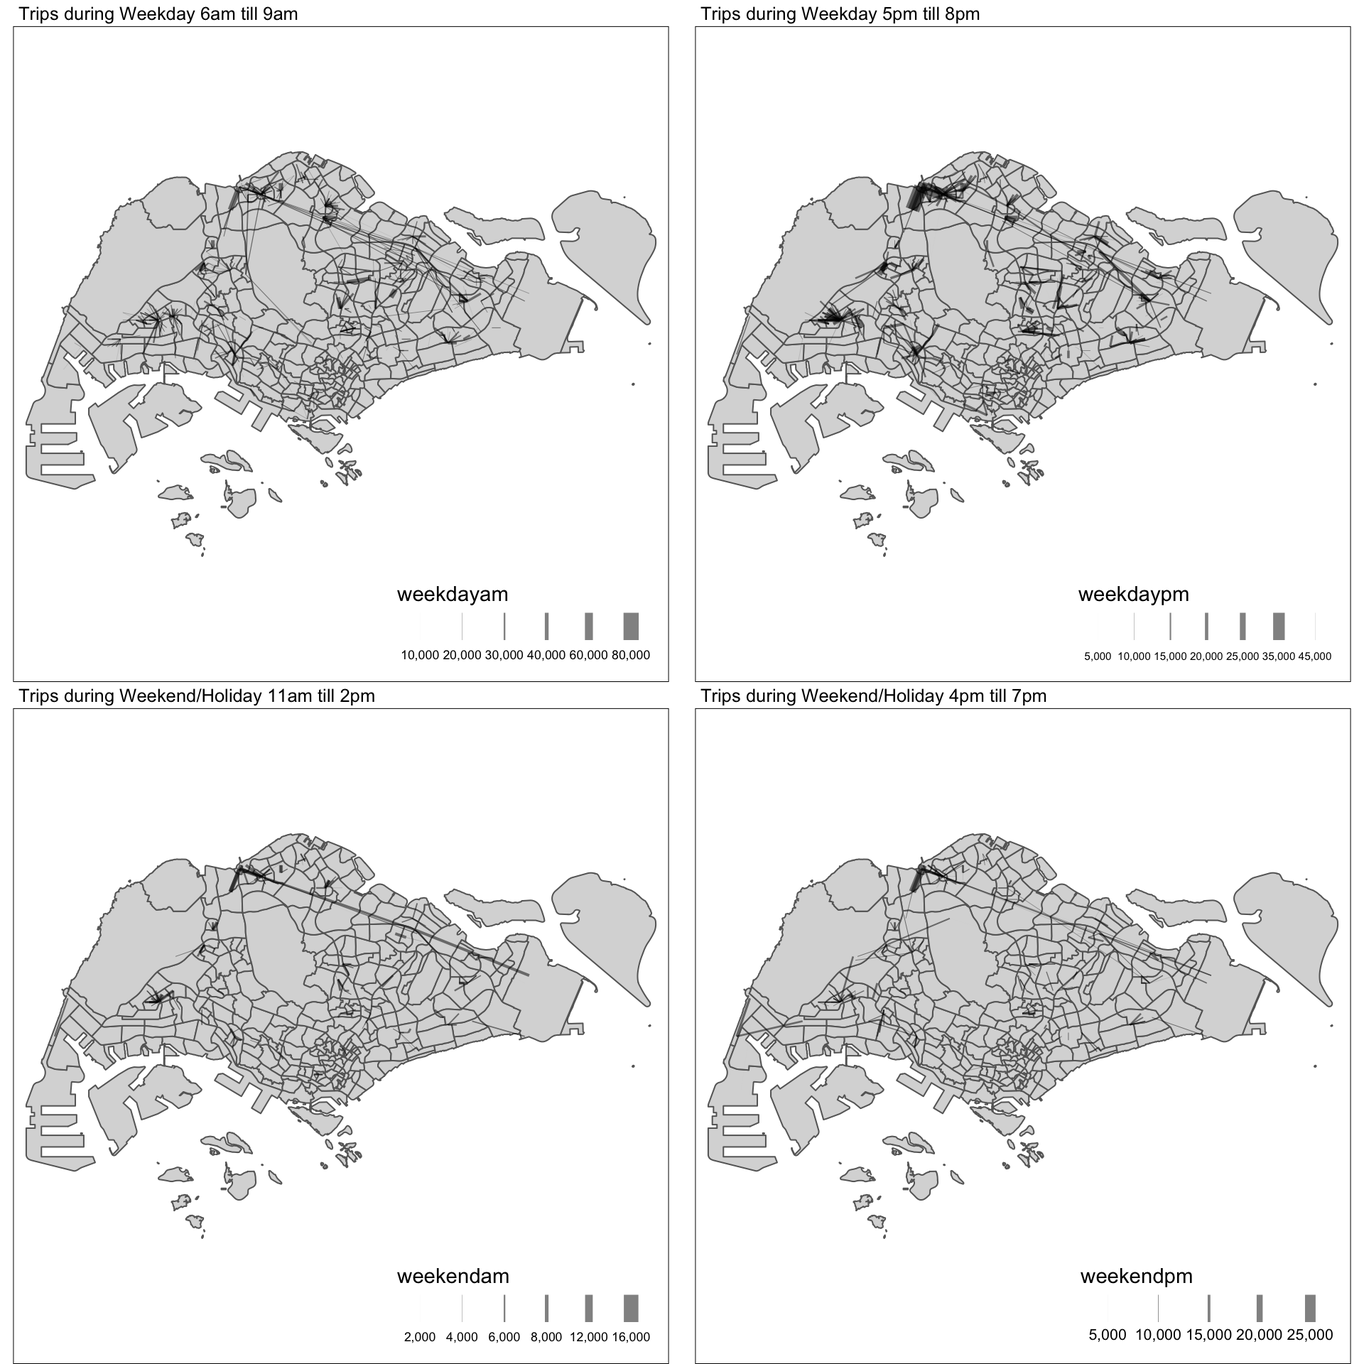
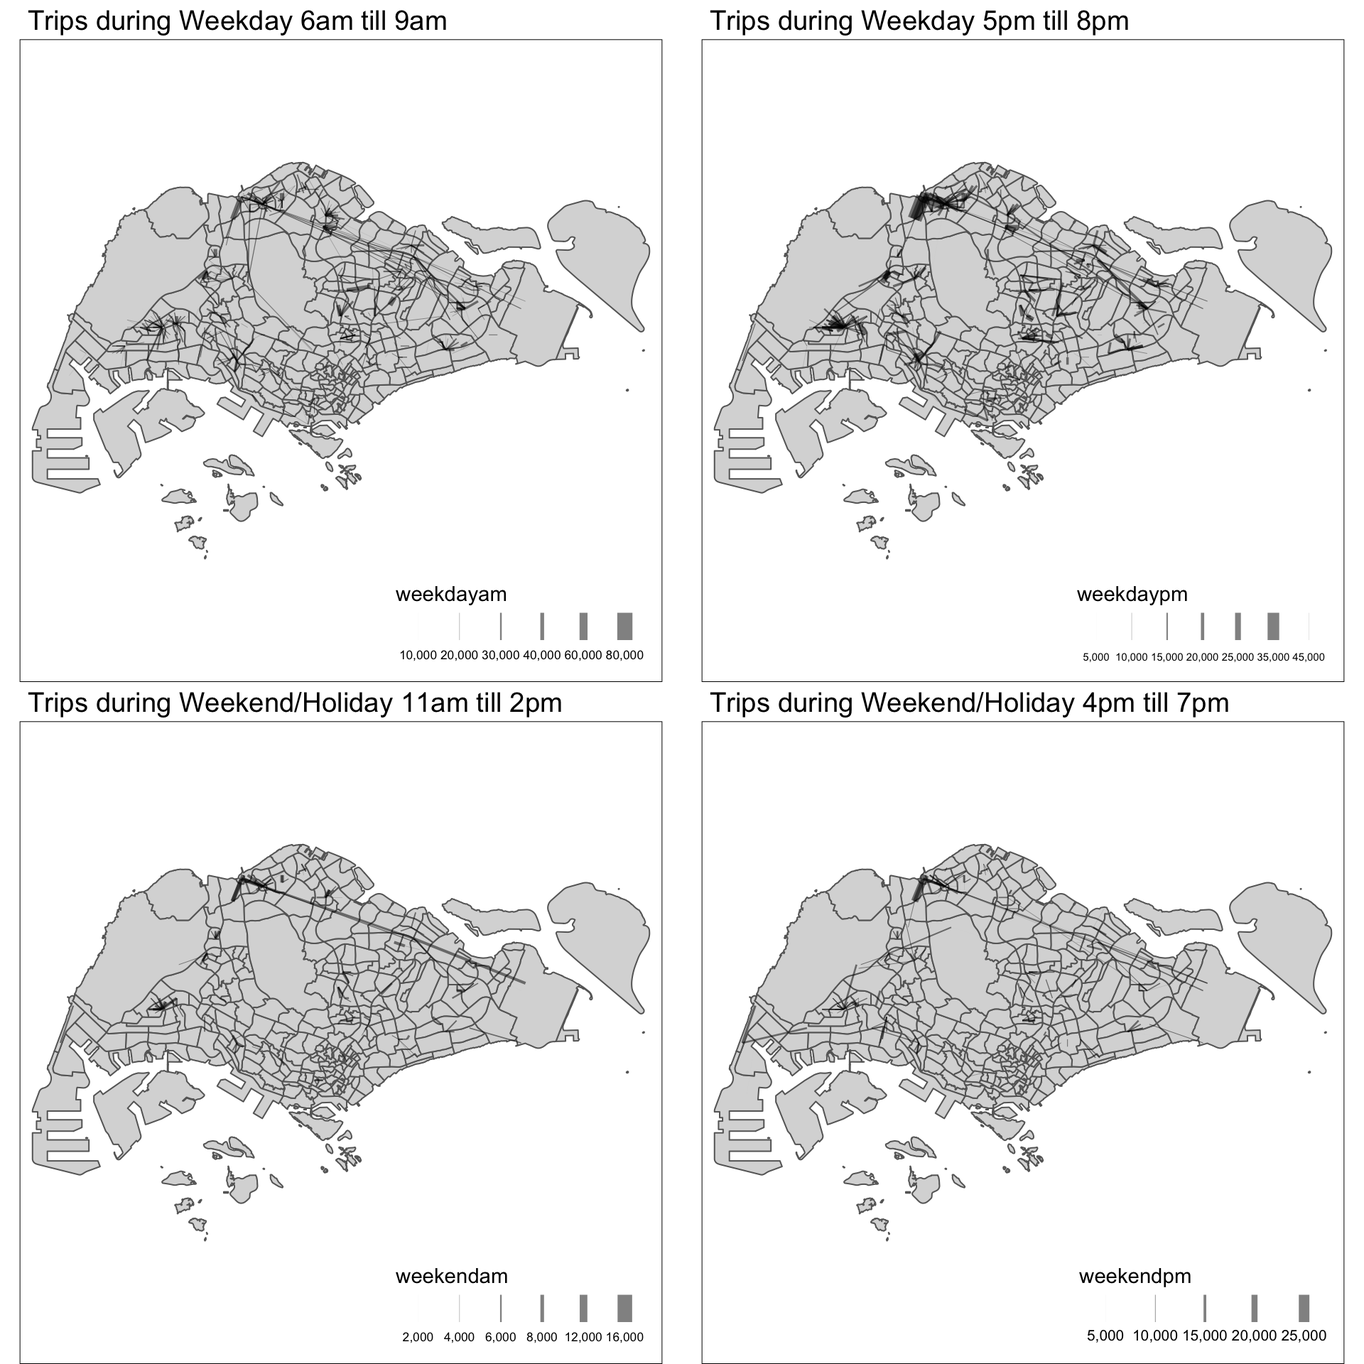
commit for test the large distance matrxit.

diff --git a/_site/Takehome_Ex/Takehome_Ex02/Takehome_Ex02.html b/_site/Takehome_Ex/Takehome_Ex02/Takehome_Ex02.html
@@ -358,7 +358,7 @@ Important
 <div class="cell">
 <details>
 <summary>Code</summary>
-<div class="sourceCode cell-code" id="cb1"><pre class="sourceCode r code-with-copy"><code class="sourceCode r"><span id="cb1-1"><a href="#cb1-1" aria-hidden="true" tabindex="-1"></a>pacman<span class="sc">::</span><span class="fu">p_load</span>(sf, spdep, tmap, tidyverse, sfdep, stplanr, reshape2, ggpubr, DT)</span></code><button title="Copy to Clipboard" class="code-copy-button"><i class="bi"></i></button></pre></div>
+<div class="sourceCode cell-code" id="cb1"><pre class="sourceCode r code-with-copy"><code class="sourceCode r"><span id="cb1-1"><a href="#cb1-1" aria-hidden="true" tabindex="-1"></a>pacman<span class="sc">::</span><span class="fu">p_load</span>(sf, sp, spdep, tmap, tidyverse, sfdep, stplanr, reshape2, ggpubr, DT)</span></code><button title="Copy to Clipboard" class="code-copy-button"><i class="bi"></i></button></pre></div>
 </details>
 </div>
 </section>
@@ -744,7 +744,7 @@ $ TRIPS               &lt;dbl&gt; 290, 540, 265, 201, 118, 516, 189, 165, 77, 30
 <span id="cb30-10"><a href="#cb30-10" aria-hidden="true" tabindex="-1"></a>           <span class="at">n =</span> <span class="dv">6</span>,</span>
 <span id="cb30-11"><a href="#cb30-11" aria-hidden="true" tabindex="-1"></a>           <span class="at">alpha =</span> <span class="fl">0.5</span>) <span class="sc">+</span></span>
 <span id="cb30-12"><a href="#cb30-12" aria-hidden="true" tabindex="-1"></a>  <span class="fu">tm_layout</span>(<span class="at">main.title =</span> <span class="st">"Trips during Weekday 6am till 9am"</span>,</span>
-<span id="cb30-13"><a href="#cb30-13" aria-hidden="true" tabindex="-1"></a>            <span class="at">main.title.size =</span> <span class="fl">0.8</span>)</span>
+<span id="cb30-13"><a href="#cb30-13" aria-hidden="true" tabindex="-1"></a>            <span class="at">main.title.size =</span> <span class="fl">1.2</span>)</span>
 <span id="cb30-14"><a href="#cb30-14" aria-hidden="true" tabindex="-1"></a></span>
 <span id="cb30-15"><a href="#cb30-15" aria-hidden="true" tabindex="-1"></a>weekdaypm_plot <span class="ot">&lt;-</span> <span class="fu">tm_shape</span>(sz) <span class="sc">+</span></span>
 <span id="cb30-16"><a href="#cb30-16" aria-hidden="true" tabindex="-1"></a>  <span class="fu">tmap_options</span>(<span class="at">check.and.fix =</span> <span class="cn">TRUE</span>) <span class="sc">+</span></span>
@@ -758,7 +758,7 @@ $ TRIPS               &lt;dbl&gt; 290, 540, 265, 201, 118, 516, 189, 165, 77, 30
 <span id="cb30-24"><a href="#cb30-24" aria-hidden="true" tabindex="-1"></a>           <span class="at">n =</span> <span class="dv">6</span>,</span>
 <span id="cb30-25"><a href="#cb30-25" aria-hidden="true" tabindex="-1"></a>           <span class="at">alpha =</span> <span class="fl">0.5</span>) <span class="sc">+</span></span>
 <span id="cb30-26"><a href="#cb30-26" aria-hidden="true" tabindex="-1"></a>  <span class="fu">tm_layout</span>(<span class="at">main.title =</span> <span class="st">"Trips during Weekday 5pm till 8pm"</span>,</span>
-<span id="cb30-27"><a href="#cb30-27" aria-hidden="true" tabindex="-1"></a>            <span class="at">main.title.size =</span> <span class="fl">0.8</span>)</span>
+<span id="cb30-27"><a href="#cb30-27" aria-hidden="true" tabindex="-1"></a>            <span class="at">main.title.size =</span> <span class="fl">1.2</span>)</span>
 <span id="cb30-28"><a href="#cb30-28" aria-hidden="true" tabindex="-1"></a></span>
 <span id="cb30-29"><a href="#cb30-29" aria-hidden="true" tabindex="-1"></a>weekendam_plot <span class="ot">&lt;-</span> <span class="fu">tm_shape</span>(sz) <span class="sc">+</span></span>
 <span id="cb30-30"><a href="#cb30-30" aria-hidden="true" tabindex="-1"></a>  <span class="fu">tmap_options</span>(<span class="at">check.and.fix =</span> <span class="cn">TRUE</span>) <span class="sc">+</span></span>
@@ -772,7 +772,7 @@ $ TRIPS               &lt;dbl&gt; 290, 540, 265, 201, 118, 516, 189, 165, 77, 30
 <span id="cb30-38"><a href="#cb30-38" aria-hidden="true" tabindex="-1"></a>           <span class="at">n =</span> <span class="dv">6</span>,</span>
 <span id="cb30-39"><a href="#cb30-39" aria-hidden="true" tabindex="-1"></a>           <span class="at">alpha =</span> <span class="fl">0.5</span>) <span class="sc">+</span></span>
 <span id="cb30-40"><a href="#cb30-40" aria-hidden="true" tabindex="-1"></a>  <span class="fu">tm_layout</span>(<span class="at">main.title =</span> <span class="st">"Trips during Weekend/Holiday 11am till 2pm"</span>,</span>
-<span id="cb30-41"><a href="#cb30-41" aria-hidden="true" tabindex="-1"></a>            <span class="at">main.title.size =</span> <span class="fl">0.8</span>)</span>
+<span id="cb30-41"><a href="#cb30-41" aria-hidden="true" tabindex="-1"></a>            <span class="at">main.title.size =</span> <span class="fl">1.2</span>)</span>
 <span id="cb30-42"><a href="#cb30-42" aria-hidden="true" tabindex="-1"></a></span>
 <span id="cb30-43"><a href="#cb30-43" aria-hidden="true" tabindex="-1"></a>weekendpm_plot <span class="ot">&lt;-</span> <span class="fu">tm_shape</span>(sz) <span class="sc">+</span></span>
 <span id="cb30-44"><a href="#cb30-44" aria-hidden="true" tabindex="-1"></a>  <span class="fu">tmap_options</span>(<span class="at">check.and.fix =</span> <span class="cn">TRUE</span>) <span class="sc">+</span></span>
@@ -786,7 +786,7 @@ $ TRIPS               &lt;dbl&gt; 290, 540, 265, 201, 118, 516, 189, 165, 77, 30
 <span id="cb30-52"><a href="#cb30-52" aria-hidden="true" tabindex="-1"></a>           <span class="at">n =</span> <span class="dv">6</span>,</span>
 <span id="cb30-53"><a href="#cb30-53" aria-hidden="true" tabindex="-1"></a>           <span class="at">alpha =</span> <span class="fl">0.5</span>) <span class="sc">+</span></span>
 <span id="cb30-54"><a href="#cb30-54" aria-hidden="true" tabindex="-1"></a>  <span class="fu">tm_layout</span>(<span class="at">main.title =</span> <span class="st">"Trips during Weekend/Holiday 4pm till 7pm"</span>,</span>
-<span id="cb30-55"><a href="#cb30-55" aria-hidden="true" tabindex="-1"></a>            <span class="at">main.title.size =</span> <span class="fl">0.8</span>)</span>
+<span id="cb30-55"><a href="#cb30-55" aria-hidden="true" tabindex="-1"></a>            <span class="at">main.title.size =</span> <span class="fl">1.2</span>)</span>
 <span id="cb30-56"><a href="#cb30-56" aria-hidden="true" tabindex="-1"></a></span>
 <span id="cb30-57"><a href="#cb30-57" aria-hidden="true" tabindex="-1"></a><span class="fu">tmap_arrange</span>(weekdayam_plot, weekdaypm_plot, weekendam_plot, weekendpm_plot, <span class="at">asp=</span><span class="dv">1</span>, <span class="at">ncol=</span><span class="dv">2</span>,</span>
 <span id="cb30-58"><a href="#cb30-58" aria-hidden="true" tabindex="-1"></a>             <span class="at">outer.margins =</span> <span class="dv">0</span>)</span></code><button title="Copy to Clipboard" class="code-copy-button"><i class="bi"></i></button></pre></div>
@@ -807,7 +807,6 @@ Note
 <div class="callout-body-container callout-body">
 <p><strong>Observations:</strong></p>
 <p>Describe the spatial patterns revealed by the geo-visualization (not more than 100 words per visual)</p>
-<p><strong>try to add a facet graph for each time interval.</strong></p>
 </div>
 </div>
 </section>
@@ -974,40 +973,81 @@ Important
 </section>
 <section id="distance-matrix" class="level4">
 <h4 class="anchored" data-anchor-id="distance-matrix">4.1.5 Distance Matrix</h4>
-<p>I will focus on weekend/holiday evening peak time interval for further analysis.</p>
+<p>First we need to convert the bus_hex we have generated into <strong>Spatial Polygons Data Frame.</strong></p>
 <div class="cell">
 <details>
 <summary>Code</summary>
-<div class="sourceCode cell-code" id="cb46"><pre class="sourceCode r code-with-copy"><code class="sourceCode r"><span id="cb46-1"><a href="#cb46-1" aria-hidden="true" tabindex="-1"></a>weekendpm_trips <span class="ot">&lt;-</span> odbus <span class="sc">%&gt;%</span></span>
-<span id="cb46-2"><a href="#cb46-2" aria-hidden="true" tabindex="-1"></a>  <span class="fu">filter</span>(DAY_TYPE <span class="sc">==</span> <span class="st">"WEEKENDS/HOLIDAY"</span>) <span class="sc">%&gt;%</span></span>
-<span id="cb46-3"><a href="#cb46-3" aria-hidden="true" tabindex="-1"></a>  <span class="fu">filter</span>(TIME_PER_HOUR <span class="sc">&gt;=</span> <span class="dv">16</span> <span class="sc">&amp;</span></span>
-<span id="cb46-4"><a href="#cb46-4" aria-hidden="true" tabindex="-1"></a>           TIME_PER_HOUR <span class="sc">&lt;=</span> <span class="dv">19</span>) <span class="sc">%&gt;%</span></span>
-<span id="cb46-5"><a href="#cb46-5" aria-hidden="true" tabindex="-1"></a>  <span class="fu">group_by</span>(ORIGIN_PT_CODE, DESTINATION_PT_CODE) <span class="sc">%&gt;%</span></span>
-<span id="cb46-6"><a href="#cb46-6" aria-hidden="true" tabindex="-1"></a>  <span class="fu">reframe</span>(<span class="at">TRIPS =</span> <span class="fu">sum</span>(TOTAL_TRIPS))</span>
-<span id="cb46-7"><a href="#cb46-7" aria-hidden="true" tabindex="-1"></a> </span>
-<span id="cb46-8"><a href="#cb46-8" aria-hidden="true" tabindex="-1"></a>weekendpm_trips <span class="ot">&lt;-</span> weekendpm_trips <span class="sc">%&gt;%</span></span>
-<span id="cb46-9"><a href="#cb46-9" aria-hidden="true" tabindex="-1"></a>  <span class="fu">filter</span>(ORIGIN_PT_CODE <span class="sc">%in%</span> bus_hex<span class="sc">$</span><span class="st">'BUS_STOP_N'</span>) <span class="sc">%&gt;%</span></span>
-<span id="cb46-10"><a href="#cb46-10" aria-hidden="true" tabindex="-1"></a>  <span class="fu">filter</span>(DESTINATION_PT_CODE <span class="sc">%in%</span> bus_hex<span class="sc">$</span><span class="st">'BUS_STOP_N'</span>)</span>
-<span id="cb46-11"><a href="#cb46-11" aria-hidden="true" tabindex="-1"></a></span>
-<span id="cb46-12"><a href="#cb46-12" aria-hidden="true" tabindex="-1"></a>weekendpm_hex <span class="ot">&lt;-</span> <span class="fu">left_join</span>(weekendpm_trips,bus_hex <span class="sc">%&gt;%</span> <span class="fu">select</span>(BUS_STOP_N, geometry), </span>
-<span id="cb46-13"><a href="#cb46-13" aria-hidden="true" tabindex="-1"></a>                          <span class="at">by =</span> <span class="fu">c</span>(<span class="st">"ORIGIN_PT_CODE"</span> <span class="ot">=</span> <span class="st">"BUS_STOP_N"</span>))  <span class="sc">%&gt;%</span></span>
-<span id="cb46-14"><a href="#cb46-14" aria-hidden="true" tabindex="-1"></a>  <span class="fu">rename</span>(<span class="at">ORIGIN_BS =</span> ORIGIN_PT_CODE,</span>
-<span id="cb46-15"><a href="#cb46-15" aria-hidden="true" tabindex="-1"></a>         <span class="at">DESTIN_BS =</span> DESTINATION_PT_CODE) </span>
-<span id="cb46-16"><a href="#cb46-16" aria-hidden="true" tabindex="-1"></a></span>
-<span id="cb46-17"><a href="#cb46-17" aria-hidden="true" tabindex="-1"></a>weekendpm_hex <span class="ot">&lt;-</span> <span class="fu">left_join</span>(weekendpm_hex, bus_hex <span class="sc">%&gt;%</span> <span class="fu">select</span>(BUS_STOP_N, geometry), </span>
-<span id="cb46-18"><a href="#cb46-18" aria-hidden="true" tabindex="-1"></a>                          <span class="at">by =</span> <span class="fu">c</span>(<span class="st">"DESTIN_BS"</span> <span class="ot">=</span> <span class="st">"BUS_STOP_N"</span>),</span>
-<span id="cb46-19"><a href="#cb46-19" aria-hidden="true" tabindex="-1"></a>                          <span class="at">suffix =</span> <span class="fu">c</span>(<span class="st">".origin"</span>, <span class="st">".destin"</span>)) </span></code><button title="Copy to Clipboard" class="code-copy-button"><i class="bi"></i></button></pre></div>
+<div class="sourceCode cell-code" id="cb46"><pre class="sourceCode r code-with-copy"><code class="sourceCode r"><span id="cb46-1"><a href="#cb46-1" aria-hidden="true" tabindex="-1"></a>bus_sp <span class="ot">&lt;-</span> <span class="fu">as</span>(bus_hex, <span class="st">"Spatial"</span>)</span>
+<span id="cb46-2"><a href="#cb46-2" aria-hidden="true" tabindex="-1"></a>bus_sp</span></code><button title="Copy to Clipboard" class="code-copy-button"><i class="bi"></i></button></pre></div>
+</details>
+<div class="cell-output cell-output-stdout">
+<pre><code>class       : SpatialPolygonsDataFrame 
+features    : 5140 
+extent      : 3595.122, 48595.12, 26265.59, 50081.29  (xmin, xmax, ymin, ymax)
+crs         : +proj=tmerc +lat_0=1.36666666666667 +lon_0=103.833333333333 +k=1 +x_0=28001.642 +y_0=38744.572 +ellps=WGS84 +towgs84=0,0,0,0,0,0,0 +units=m +no_defs 
+variables   : 17
+names       :   id, BUS_STOP_N, OBJECTID, SUBZONE_NO, SUBZONE_N, SUBZONE_C, CA_IND, PLN_AREA_N, PLN_AREA_C,       REGION_N, REGION_C,          INC_CRC, FMEL_UPD_D,     X_ADDR,     Y_ADDR, ... 
+min values  :    3,      01012,        1,          1, ADMIRALTY,    AMSZ02,      N, ANG MO KIO,         AM, CENTRAL REGION,       CR, 00F5E30B5C9B7AD8,      16409,  5092.8949, 25813.3546, ... 
+max values  : 9888,      99189,      323,         17,    YUNNAN,    YSSZ09,      Y,     YISHUN,         YS,    WEST REGION,       WR, FF2AA0D68743AE28,      16409, 49502.4866, 49482.5953, ... </code></pre>
+</div>
+</div>
+<p>Then we can compute distance matrix of our bus stops hexagons.</p>
+<div class="cell">
+<details>
+<summary>Code</summary>
+<div class="sourceCode cell-code" id="cb48"><pre class="sourceCode r code-with-copy"><code class="sourceCode r"><span id="cb48-1"><a href="#cb48-1" aria-hidden="true" tabindex="-1"></a>dist <span class="ot">&lt;-</span> <span class="fu">spDists</span>(bus_sp, </span>
+<span id="cb48-2"><a href="#cb48-2" aria-hidden="true" tabindex="-1"></a>                <span class="at">longlat =</span> <span class="cn">FALSE</span>)</span>
+<span id="cb48-3"><a href="#cb48-3" aria-hidden="true" tabindex="-1"></a><span class="fu">head</span>(dist, <span class="at">n=</span><span class="fu">c</span>(<span class="dv">5</span>, <span class="dv">5</span>))</span></code><button title="Copy to Clipboard" class="code-copy-button"><i class="bi"></i></button></pre></div>
+</details>
+<div class="cell-output cell-output-stdout">
+<pre><code>          [,1]      [,2]      [,3]      [,4]      [,5]
+[1,]    0.0000  992.1567 2704.1635 3333.0729  992.1567
+[2,]  992.1567    0.0000 1948.5572 2598.0762  375.0000
+[3,] 2704.1635 1948.5572    0.0000  649.5191 2281.0359
+[4,] 3333.0729 2598.0762  649.5191    0.0000 2928.8436
+[5,]  992.1567  375.0000 2281.0359 2928.8436    0.0000</code></pre>
+</div>
+</div>
+</section>
+</section>
+<section id="spatial-interaction-modelling" class="level3">
+<h3 class="anchored" data-anchor-id="spatial-interaction-modelling"><strong>4.2 Spatial Interaction Modelling</strong></h3>
+<section id="spatial-interactive-model" class="level4">
+<h4 class="anchored" data-anchor-id="spatial-interactive-model">4.2.1 Spatial Interactive model</h4>
+<p>For this part, I will focus on weekend/holiday evening peak time interval for further analysis.</p>
+<div class="cell">
+<details>
+<summary>Code</summary>
+<div class="sourceCode cell-code" id="cb50"><pre class="sourceCode r code-with-copy"><code class="sourceCode r"><span id="cb50-1"><a href="#cb50-1" aria-hidden="true" tabindex="-1"></a>weekendpm_trips <span class="ot">&lt;-</span> odbus <span class="sc">%&gt;%</span></span>
+<span id="cb50-2"><a href="#cb50-2" aria-hidden="true" tabindex="-1"></a>  <span class="fu">filter</span>(DAY_TYPE <span class="sc">==</span> <span class="st">"WEEKENDS/HOLIDAY"</span>) <span class="sc">%&gt;%</span></span>
+<span id="cb50-3"><a href="#cb50-3" aria-hidden="true" tabindex="-1"></a>  <span class="fu">filter</span>(TIME_PER_HOUR <span class="sc">&gt;=</span> <span class="dv">16</span> <span class="sc">&amp;</span></span>
+<span id="cb50-4"><a href="#cb50-4" aria-hidden="true" tabindex="-1"></a>           TIME_PER_HOUR <span class="sc">&lt;=</span> <span class="dv">19</span>) <span class="sc">%&gt;%</span></span>
+<span id="cb50-5"><a href="#cb50-5" aria-hidden="true" tabindex="-1"></a>  <span class="fu">group_by</span>(ORIGIN_PT_CODE, DESTINATION_PT_CODE) <span class="sc">%&gt;%</span></span>
+<span id="cb50-6"><a href="#cb50-6" aria-hidden="true" tabindex="-1"></a>  <span class="fu">reframe</span>(<span class="at">TRIPS =</span> <span class="fu">sum</span>(TOTAL_TRIPS))</span>
+<span id="cb50-7"><a href="#cb50-7" aria-hidden="true" tabindex="-1"></a> </span>
+<span id="cb50-8"><a href="#cb50-8" aria-hidden="true" tabindex="-1"></a>weekendpm_trips <span class="ot">&lt;-</span> weekendpm_trips <span class="sc">%&gt;%</span></span>
+<span id="cb50-9"><a href="#cb50-9" aria-hidden="true" tabindex="-1"></a>  <span class="fu">filter</span>(ORIGIN_PT_CODE <span class="sc">%in%</span> bus_hex<span class="sc">$</span><span class="st">'BUS_STOP_N'</span>) <span class="sc">%&gt;%</span></span>
+<span id="cb50-10"><a href="#cb50-10" aria-hidden="true" tabindex="-1"></a>  <span class="fu">filter</span>(DESTINATION_PT_CODE <span class="sc">%in%</span> bus_hex<span class="sc">$</span><span class="st">'BUS_STOP_N'</span>)</span>
+<span id="cb50-11"><a href="#cb50-11" aria-hidden="true" tabindex="-1"></a></span>
+<span id="cb50-12"><a href="#cb50-12" aria-hidden="true" tabindex="-1"></a>weekendpm_hex <span class="ot">&lt;-</span> <span class="fu">left_join</span>(weekendpm_trips,bus_hex <span class="sc">%&gt;%</span> <span class="fu">select</span>(BUS_STOP_N, geometry), </span>
+<span id="cb50-13"><a href="#cb50-13" aria-hidden="true" tabindex="-1"></a>                          <span class="at">by =</span> <span class="fu">c</span>(<span class="st">"ORIGIN_PT_CODE"</span> <span class="ot">=</span> <span class="st">"BUS_STOP_N"</span>))  <span class="sc">%&gt;%</span></span>
+<span id="cb50-14"><a href="#cb50-14" aria-hidden="true" tabindex="-1"></a>  <span class="fu">rename</span>(<span class="at">ORIGIN_BS =</span> ORIGIN_PT_CODE,</span>
+<span id="cb50-15"><a href="#cb50-15" aria-hidden="true" tabindex="-1"></a>         <span class="at">DESTIN_BS =</span> DESTINATION_PT_CODE) </span>
+<span id="cb50-16"><a href="#cb50-16" aria-hidden="true" tabindex="-1"></a></span>
+<span id="cb50-17"><a href="#cb50-17" aria-hidden="true" tabindex="-1"></a>weekendpm_hex <span class="ot">&lt;-</span> <span class="fu">left_join</span>(weekendpm_hex, bus_hex <span class="sc">%&gt;%</span> <span class="fu">select</span>(BUS_STOP_N, geometry), </span>
+<span id="cb50-18"><a href="#cb50-18" aria-hidden="true" tabindex="-1"></a>                          <span class="at">by =</span> <span class="fu">c</span>(<span class="st">"DESTIN_BS"</span> <span class="ot">=</span> <span class="st">"BUS_STOP_N"</span>),</span>
+<span id="cb50-19"><a href="#cb50-19" aria-hidden="true" tabindex="-1"></a>                          <span class="at">suffix =</span> <span class="fu">c</span>(<span class="st">".origin"</span>, <span class="st">".destin"</span>)) </span></code><button title="Copy to Clipboard" class="code-copy-button"><i class="bi"></i></button></pre></div>
 </details>
 </div>
 <p>Create flow lines for those trips data.</p>
 <div class="cell">
 <details>
 <summary>Code</summary>
-<div class="sourceCode cell-code" id="cb47"><pre class="sourceCode r code-with-copy"><code class="sourceCode r"><span id="cb47-1"><a href="#cb47-1" aria-hidden="true" tabindex="-1"></a>weekendpm_flow <span class="ot">&lt;-</span> <span class="fu">od2line</span>(<span class="at">flow =</span> weekendpm_hex, </span>
-<span id="cb47-2"><a href="#cb47-2" aria-hidden="true" tabindex="-1"></a>                    <span class="at">zones =</span> bus_hex,</span>
-<span id="cb47-3"><a href="#cb47-3" aria-hidden="true" tabindex="-1"></a>                    <span class="at">zone_code =</span> <span class="st">"BUS_STOP_N"</span>)</span>
-<span id="cb47-4"><a href="#cb47-4" aria-hidden="true" tabindex="-1"></a></span>
-<span id="cb47-5"><a href="#cb47-5" aria-hidden="true" tabindex="-1"></a><span class="fu">summary</span>(weekendpm_flow)</span></code><button title="Copy to Clipboard" class="code-copy-button"><i class="bi"></i></button></pre></div>
+<div class="sourceCode cell-code" id="cb51"><pre class="sourceCode r code-with-copy"><code class="sourceCode r"><span id="cb51-1"><a href="#cb51-1" aria-hidden="true" tabindex="-1"></a>weekendpm_flow <span class="ot">&lt;-</span> <span class="fu">od2line</span>(<span class="at">flow =</span> weekendpm_hex, </span>
+<span id="cb51-2"><a href="#cb51-2" aria-hidden="true" tabindex="-1"></a>                    <span class="at">zones =</span> bus_hex,</span>
+<span id="cb51-3"><a href="#cb51-3" aria-hidden="true" tabindex="-1"></a>                    <span class="at">zone_code =</span> <span class="st">"BUS_STOP_N"</span>)</span>
+<span id="cb51-4"><a href="#cb51-4" aria-hidden="true" tabindex="-1"></a></span>
+<span id="cb51-5"><a href="#cb51-5" aria-hidden="true" tabindex="-1"></a><span class="fu">summary</span>(weekendpm_flow)</span></code><button title="Copy to Clipboard" class="code-copy-button"><i class="bi"></i></button></pre></div>
 </details>
 <div class="cell-output cell-output-stdout">
 <pre><code>  ORIGIN_BS          DESTIN_BS             TRIPS         
@@ -1026,22 +1066,6 @@ Important
                                                                      </code></pre>
 </div>
 </div>
-<p>Then we need to convert it to <strong>Spatial Polygons Data Frame.</strong></p>
-<div class="cell">
-<details>
-<summary>Code</summary>
-<div class="sourceCode cell-code" id="cb49"><pre class="sourceCode r code-with-copy"><code class="sourceCode r"><span id="cb49-1"><a href="#cb49-1" aria-hidden="true" tabindex="-1"></a><span class="co">#weekendpm_sp &lt;- as(weekendpm_hex, "Spatial")</span></span>
-<span id="cb49-2"><a href="#cb49-2" aria-hidden="true" tabindex="-1"></a><span class="co">#weekendpm_sp</span></span></code><button title="Copy to Clipboard" class="code-copy-button"><i class="bi"></i></button></pre></div>
-</details>
-</div>
-<p>Then we can compute distance matrix.</p>
-</section>
-</section>
-<section id="spatial-interaction-modelling" class="level3">
-<h3 class="anchored" data-anchor-id="spatial-interaction-modelling"><strong>4.2 Spatial Interaction Modelling</strong></h3>
-<section id="spatial-interactive-model" class="level4">
-<h4 class="anchored" data-anchor-id="spatial-interactive-model">4.2.1 Spatial Interactive model</h4>
-<p>Calibrate spatial interactive models to determine factors affecting urban commuting flows at the selected time interval.</p>
 </section>
 <section id="visualizing-modelling-results" class="level4">
 <h4 class="anchored" data-anchor-id="visualizing-modelling-results">4.2.2 Visualizing Modelling results</h4>
